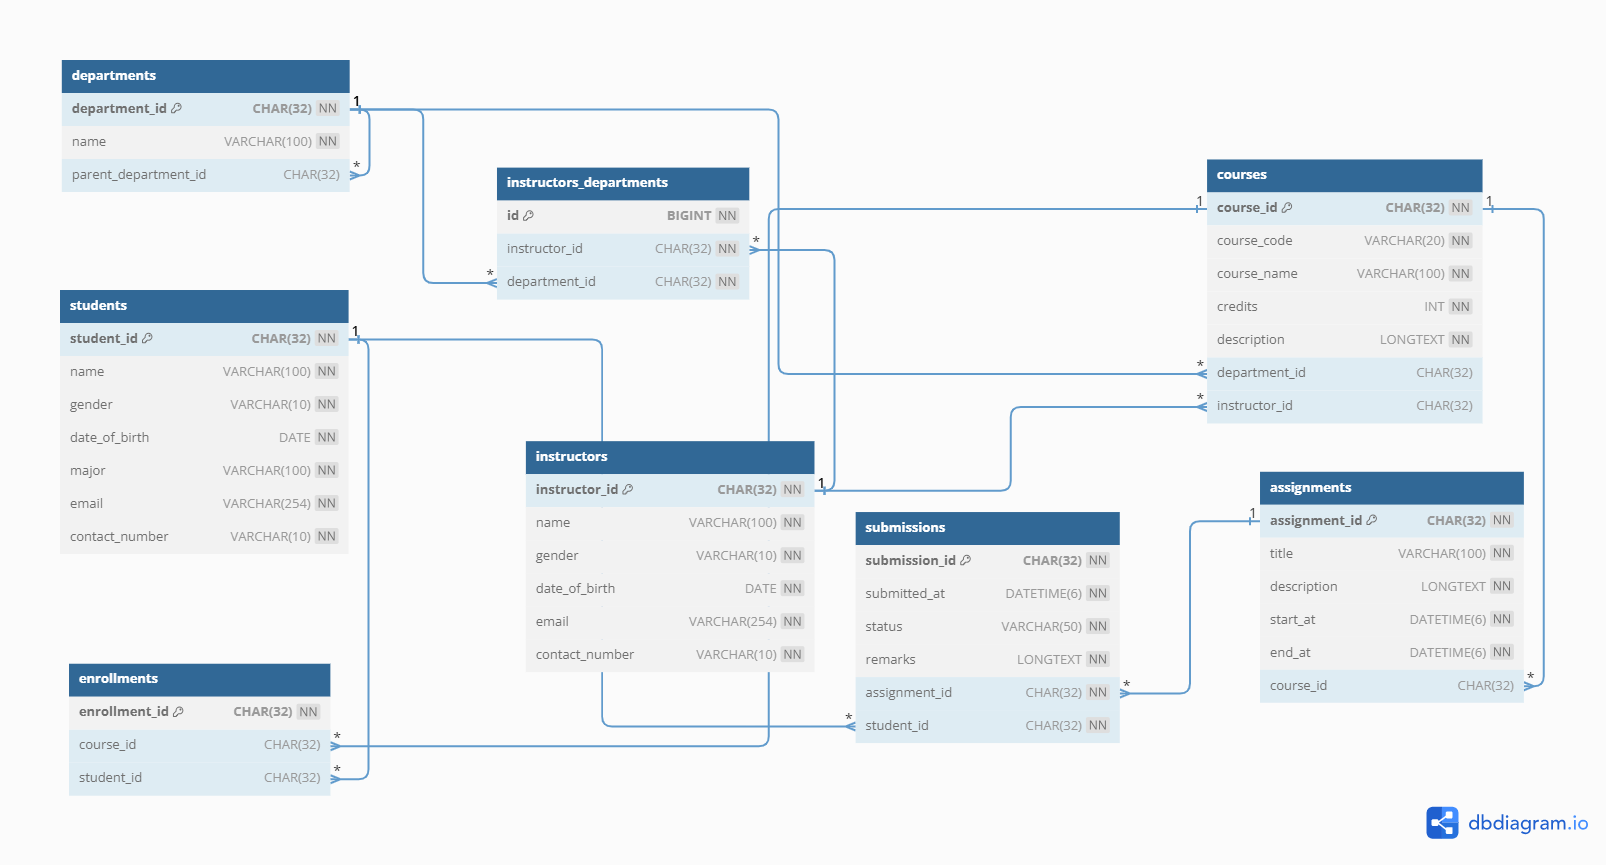
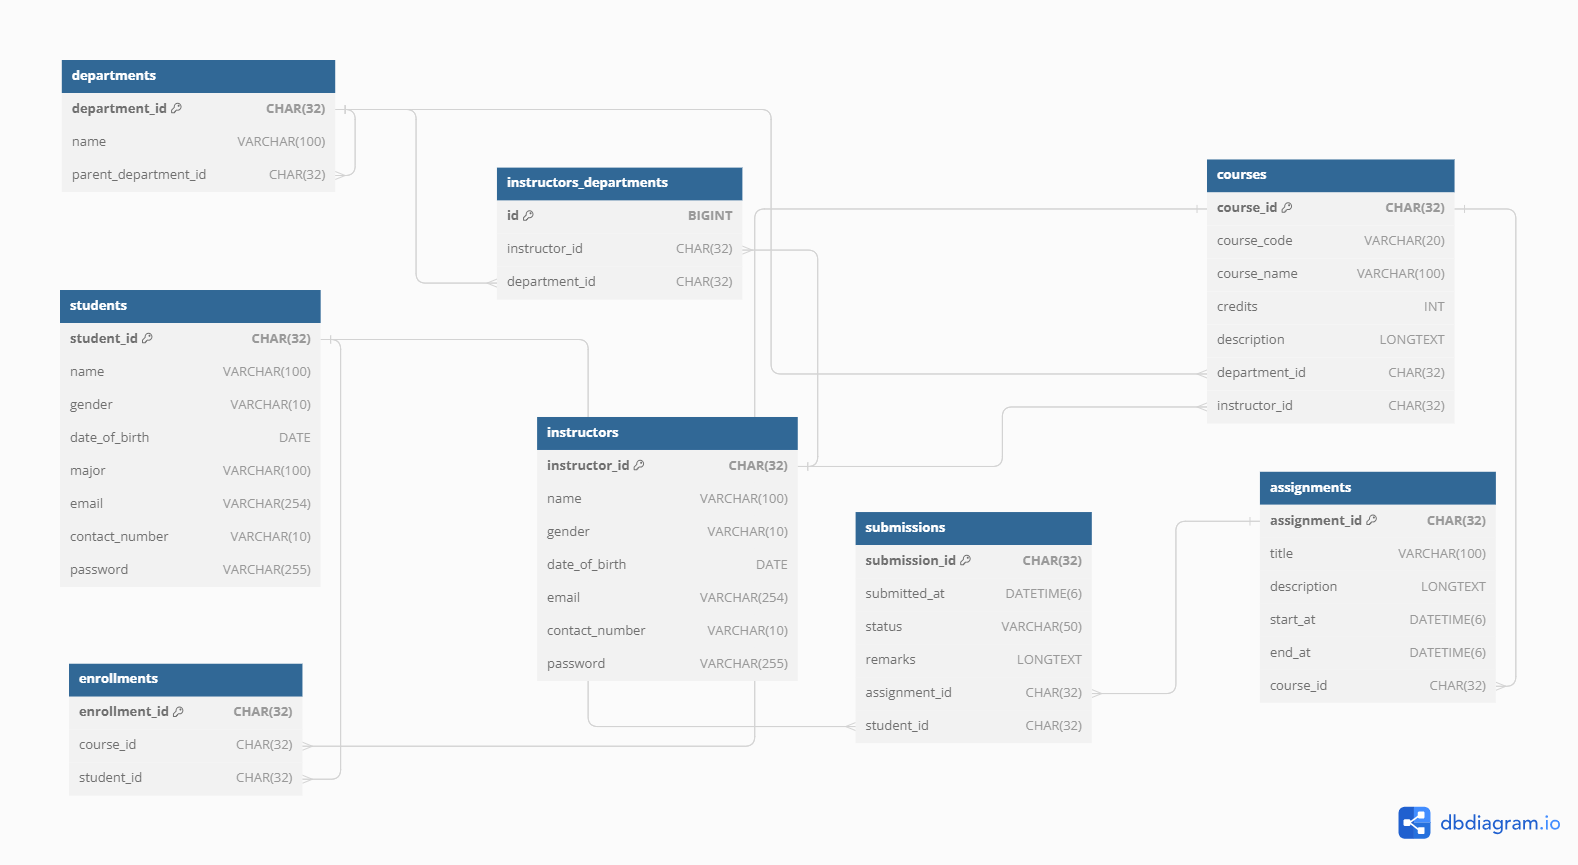
updated ER Diagram

diff --git a/Backend/departments/views.py b/Backend/departments/views.py
@@ -110,7 +110,8 @@ def update_department(request, department_id):
     if request.method == "PUT":
         try:
             department = get_object_or_404(Department, pk=department_id)
-            name = (json.loads(request.body)).get('name')
+            request_data = json.loads(request.body)
+            name = request_data.get('department_name')
             
             if name:
                 department.name = name
@@ -137,7 +138,8 @@ def update_department(request, department_id):
                     } for instructor in instructors]
                 }
                 return JsonResponse({'message': 'department updated successfully', 'data': department_data}, status=200)
-                
+            else:
+                return JsonResponse({'message': 'Department Name missing'}, status=400)
             
         except Exception as e:
             return JsonResponse({'message': 'Department not found'}, status=404)

diff --git a/Backend/instructors/views.py b/Backend/instructors/views.py
@@ -59,7 +59,8 @@ def register_instructor(request):
                 gender = instructor_data.get('gender'),
                 date_of_birth = instructor_data.get('date_of_birth'),
                 email = instructor_data.get('email'),
-                contact_number = instructor_data.get('contact_number')
+                contact_number = instructor_data.get('contact_number'),
+                password = instructor_data.get('password')
             )
             instructor.save()
             

diff --git a/Backend/students/views.py b/Backend/students/views.py
@@ -63,7 +63,8 @@ def register_student(request):
                 date_of_birth = student_data.get('date_of_birth'),
                 major = student_data.get('major'),
                 email = student_data.get('email'),
-                contact_number = student_data.get('contact_number')
+                contact_number = student_data.get('contact_number'),
+                password = student_data.get('password')
             )
             student.save()
             

diff --git a/Backend/instructors/migrations/0003_rename_passoword_instructor_password.py b/Backend/instructors/migrations/0003_rename_passoword_instructor_password.py
@@ -1,0 +1,18 @@
+# Generated by Django 4.2.4 on 2023-09-05 10:34
+
+from django.db import migrations
+
+
+class Migration(migrations.Migration):
+
+    dependencies = [
+        ('instructors', '0002_alter_instructor_passoword'),
+    ]
+
+    operations = [
+        migrations.RenameField(
+            model_name='instructor',
+            old_name='passoword',
+            new_name='password',
+        ),
+    ]

diff --git a/Backend/students/migrations/0003_rename_passoword_student_password.py b/Backend/students/migrations/0003_rename_passoword_student_password.py
@@ -1,0 +1,18 @@
+# Generated by Django 4.2.4 on 2023-09-05 10:34
+
+from django.db import migrations
+
+
+class Migration(migrations.Migration):
+
+    dependencies = [
+        ('students', '0002_alter_student_passoword'),
+    ]
+
+    operations = [
+        migrations.RenameField(
+            model_name='student',
+            old_name='passoword',
+            new_name='password',
+        ),
+    ]

diff --git a/Backend/instructors/models.py b/Backend/instructors/models.py
@@ -21,4 +21,4 @@ class Instructor(models.Model):
     email = models.EmailField(unique=True)
     contact_number = models.CharField(max_length=10, unique=True)
     departments = models.ManyToManyField(Department, related_name='instructors')
-    passoword = models.CharField(max_length=255)
+    password = models.CharField(max_length=255)

diff --git a/Backend/students/models.py b/Backend/students/models.py
@@ -25,5 +25,5 @@ class Student(models.Model):
     major = models.CharField(max_length=100, choices=MAJOR_CHOICES)
     email = models.EmailField(unique=True)
     contact_number = models.CharField(max_length=10, unique=True)
-    passoword = models.CharField(max_length=255)
+    password = models.CharField(max_length=255)
     
